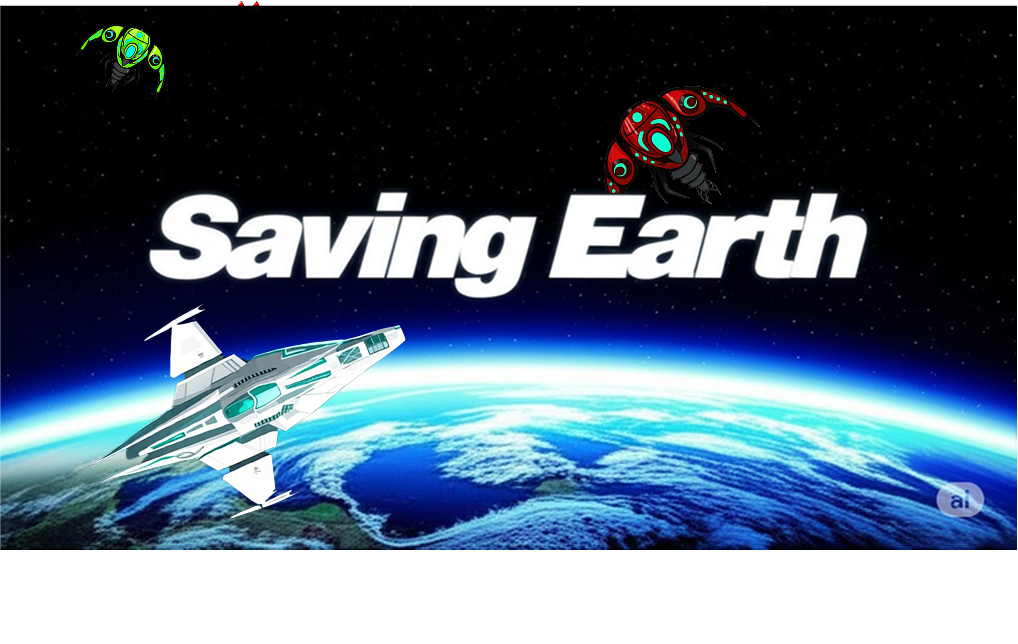
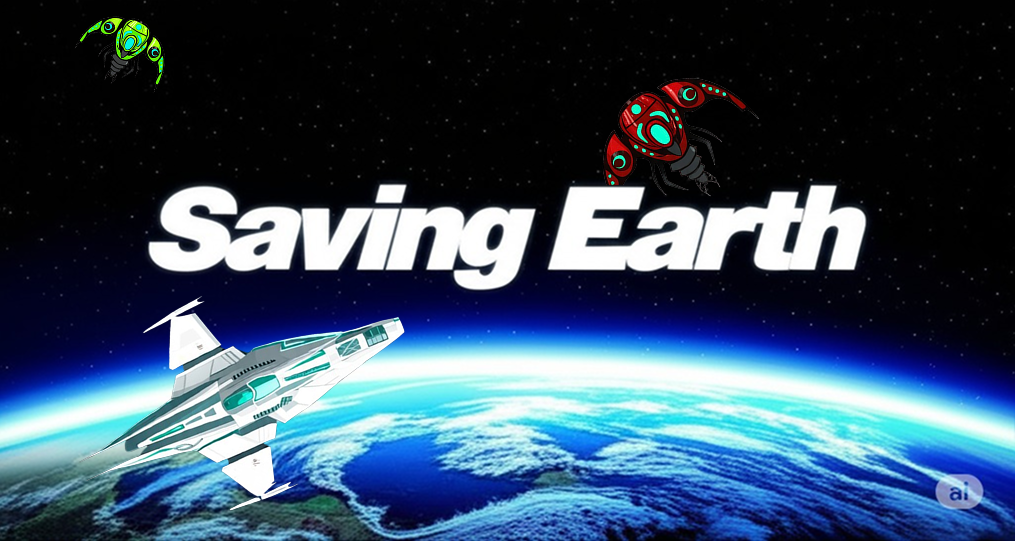
Se mejora tamaño de portada en celulares

diff --git a/index.html b/index.html
@@ -179,6 +179,7 @@
     }
 
     #startScreen img {
+      display: block; /* Ensure block-level behavior */
       max-width: 80%;
       height: auto;
       margin-bottom: 2em;
@@ -265,7 +266,12 @@
         margin-top: 4%;
       }
 
+      #startScreen {
+        width: 90vw; /* Set width for tablets */
+        padding: 1em; /* Reduce padding for tablets */
+      }
       #startScreen img {
+        max-width: 100%; /* Fill container width */
         margin-bottom: 1.5em;
       }
 
@@ -317,12 +323,13 @@
       }
 
       #startScreen {
-        padding: 1em;
+        width: 95vw; /* Set width for small mobiles */
+        padding: 0.5em; /* Further reduce padding for small mobiles */
       }
 
       #startScreen img {
         margin-bottom: 1em;
-        max-width: 90%;
+        max-width: 100%; /* Fill container width */
       }
 
       #startGameBtn {
@@ -527,8 +534,8 @@
     const BASE_MARTIAN_BASE_SPEED_X = 0.4; // Velocidad horizontal base de los marcianos
     const BASE_MARTIAN_BASE_SPEED_Y = 0.3;
     const BASE_BULLET_RADIUS = 3;
-    const BASE_GUN_WIDTH = 20; // Ancho base del cohete
-    const BASE_GUN_HEIGHT = 50; // Alto base del cohete
+    const BASE_GUN_WIDTH = 40; // Ancho base del cohete
+    const BASE_GUN_HEIGHT = 100; // Alto base del cohete
     const GUN_SPEED = 7; // Velocidad del cohete
     const BASE_GUN_AOE_RADIUS = 50; // Radio base del área de efecto en píxeles
     const BASE_EXPLOSION_MIN_SIZE = 2;
